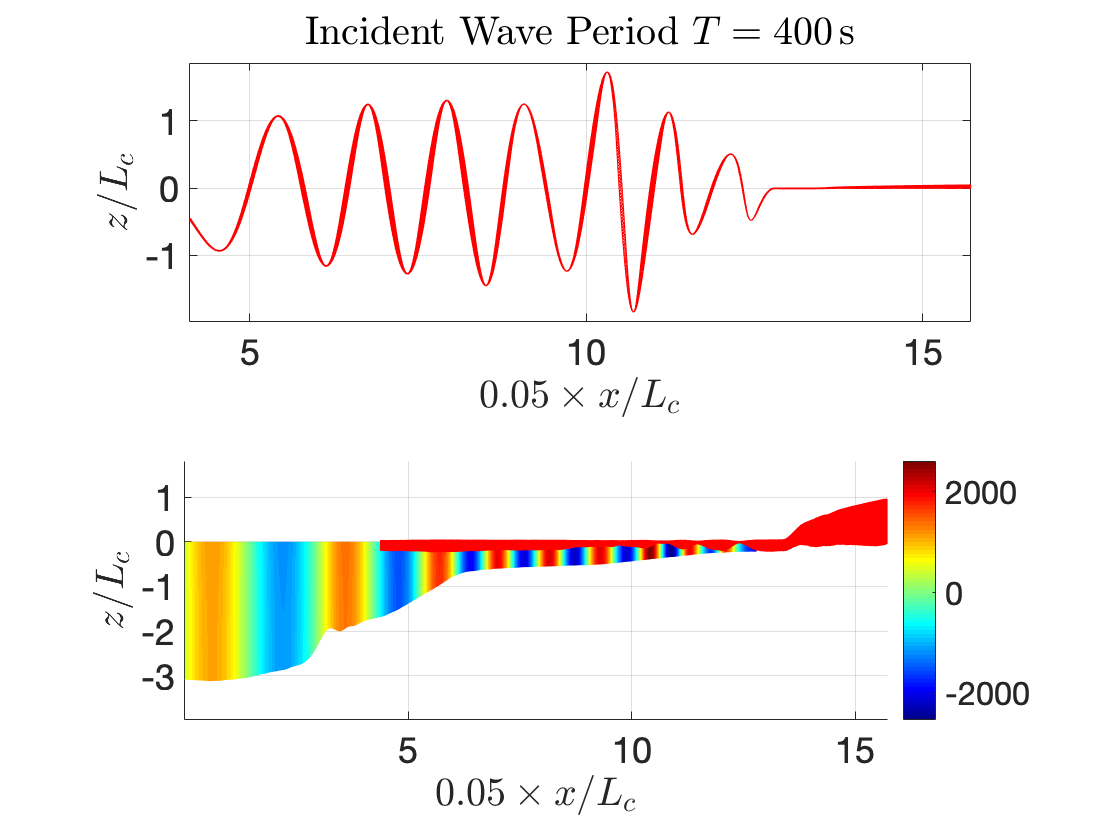
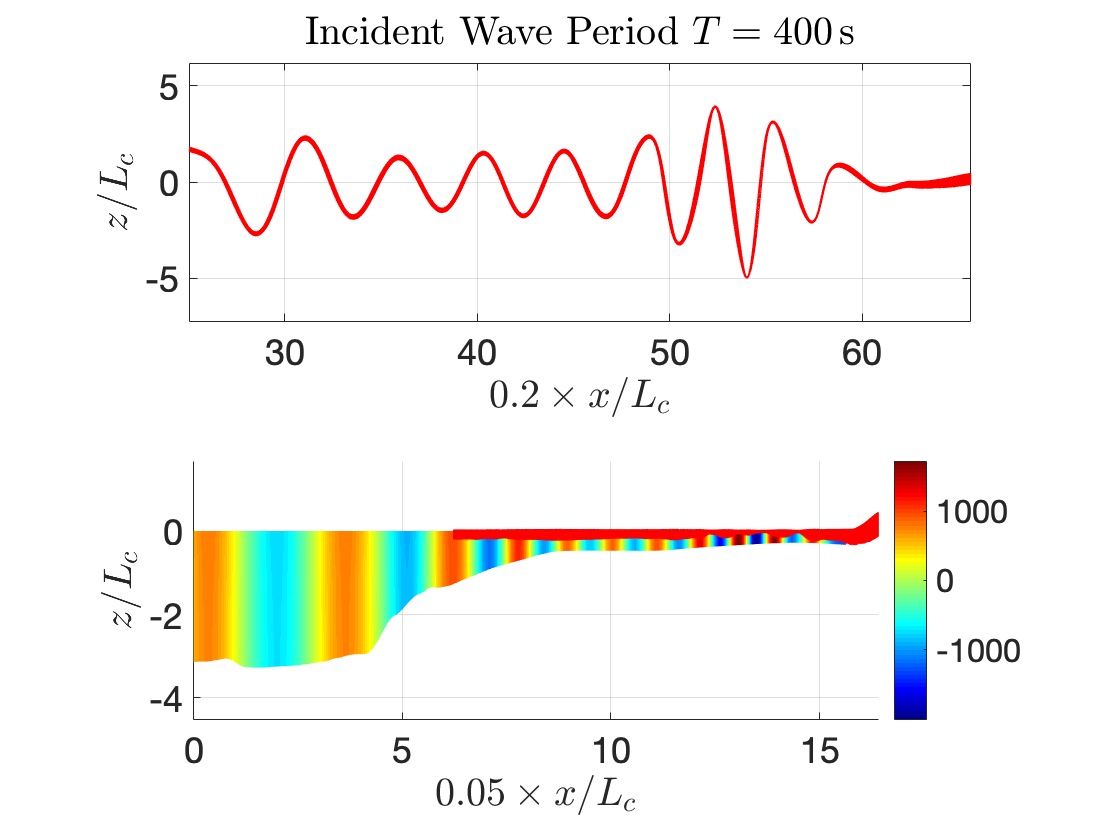
Bug Fixes

diff --git a/bedMapProfile2.m b/bedMapProfile2.m
@@ -92,7 +92,7 @@ if(isMesh)
 end
 
 %% Run the FreeFem++ code
-Tr=400;
+Tr=200;
 fprintf('Running Program ....\n');
 ffpp=[ff,' -nw -ne ',file,' -isMesh ',num2str(isMesh)...
     ,' -Tr ',num2str(Tr),' -Ti ',num2str(0),' -nborders ',num2str(6)];
@@ -117,10 +117,11 @@ POT=importfiledata('potentialCav0.bb');
 
 figure(1);
 subplot(2,1,1);
-DISP=[pts(1,:)/20+(UX+1i*IUX); pts(2,:)/20+(UY+1i*IUY)];
+scale=1/5;
+DISP=[pts(1,:)/5+(UX+1i*IUX); pts(2,:)+(UY+1i*IUY)];
 pdeplot(real(DISP),seg,tri);
 grid on
-xlabel('$0.05\times x/L_c$')
+xlabel(['$',num2str(scale),'\times x/L_c$'])
 ylabel('$z/L_c$')
 title(['Incident Wave Period $T=',num2str(Tr),'$\,s'])
 subplot(2,1,2);

diff --git a/README.md b/README.md
@@ -213,8 +213,8 @@ The following Figures show the solution for the wave-forcing of the Brunt-Ice Sh
 
 | ![Brunt](./Images/brunt_sol0.png) | ![Brunt 1](./Images/brunt_sol1.png)
 |--| -- |
-| R = (-0.7479217684724616,0.6642844248253422) | R=(-0.5429927446321565,-0.8405980481250369) |
-| abs(R) = 1.00033032985135 | abs(R)= 1.000722838369738|
+| R = (0.2231324999057611,0.9764404763640183) | R=(0.9992740059248794,-0.08813316505597107) |
+| abs(R) = 1.001610760922718 | abs(R)= 1.000722838369738|
 
 The reflection coefficients are shown below. Note that the reflection coefficient is not exactly equal to 1. Either the current code is *buggy* or a detailed convergence study might be required. Refer to the manual for more details **(Not Updated, Stay Tuned)**.
 
